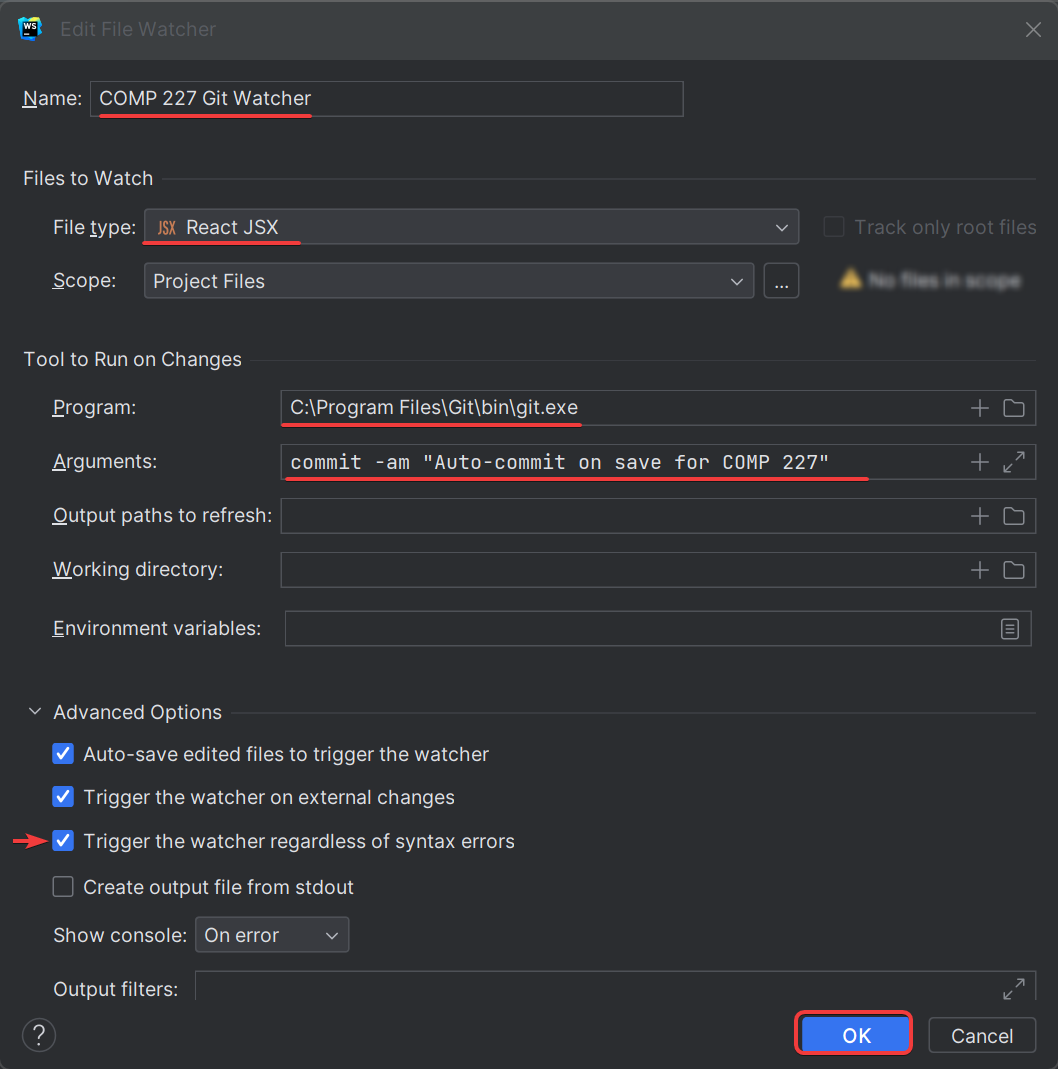
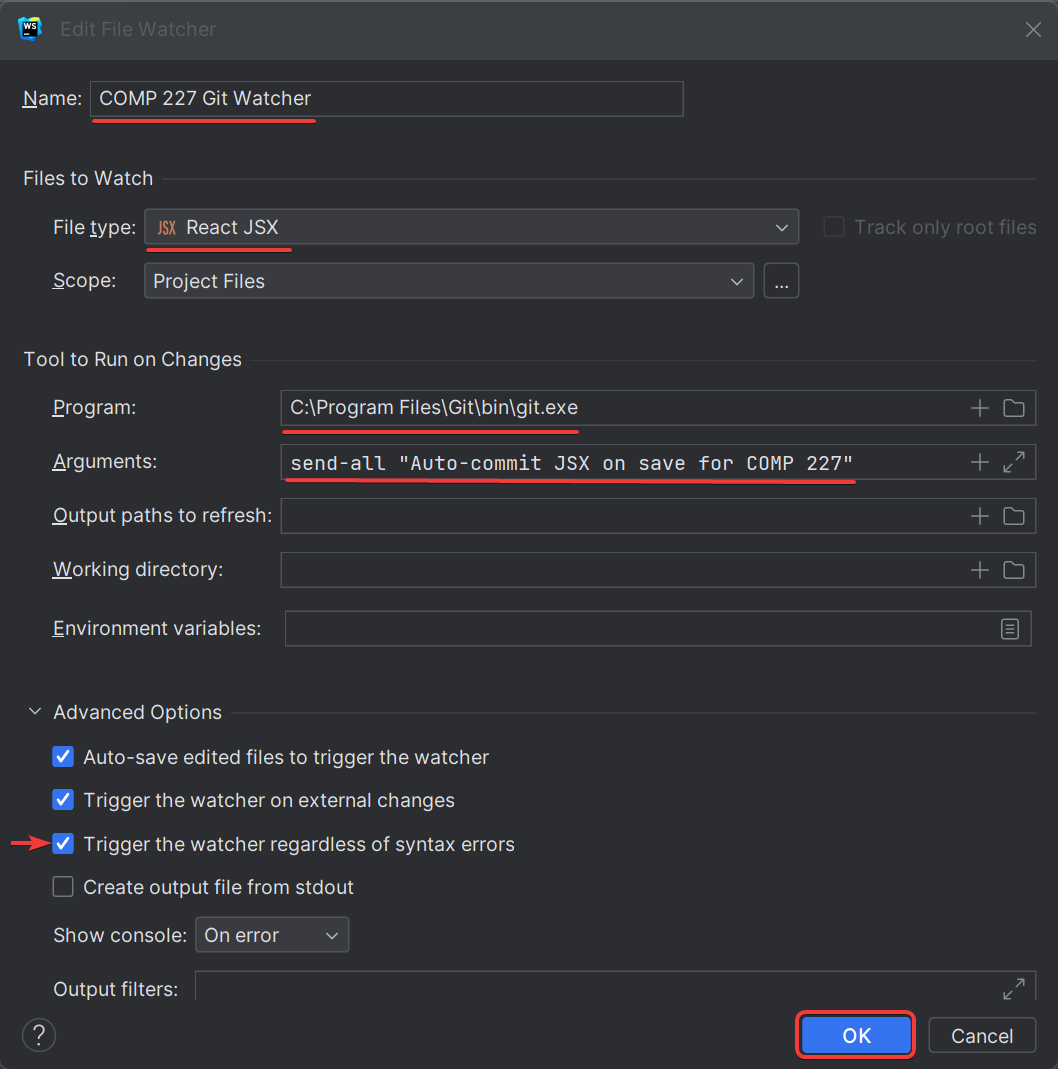
updated file watcher portion

diff --git a/src/content/0/en/part0d.md b/src/content/0/en/part0d.md
@@ -110,6 +110,9 @@ want to **set the git preferences on all the computers that you use.**  Let me s
 #### Set your git preferences on all computers that you will work on
 
 In addition to installing git, we need to make sure that we outline or configure our setup so that git knows who you are.
+
+#### Set your Git Username and Email
+
 With your terminal open, set up the git user email ID and username by typing these commands,
 making sure to replace the sections with your actual email and username
 
@@ -119,6 +122,26 @@ git config --global user.name your_github_username
 ```
 
 Make sure you press enter after each command.
+
+#### Create a Git Alias to send all changes to GitHub
+
+In addition to adding your username and password, we are going to use a specific command to streamline our git process for this course.
+You may not want to use this command in other situations as you'll want to keep closer track of what you are committing to the repo.
+However, for the purposes of this class, it will be necessary.
+
+This process will:
+
+1. add all files in the repo to be tracked
+2. commit those changes using a specified message
+3. push those changes to GitHub
+
+To do this all, we will create a git alias.
+
+```bash
+git config --global alias.send-all '!f() { git add -A && git commit -m "$@" && git push; }; f'
+```
+
+#### Change your default text editor for git commit messages
 
 Vim is the default text editor that is used in the command line.
 If you aren’t comfortable or have never used Vim, you can set up other Unix text
@@ -137,13 +160,16 @@ In those cases, you’d have to provide the entire path.
 git config --global core.editor "'C:/Program Files/Notepad++/notepad++.exe' -multiInst -nosession"
 ```
 
+#### Confirm your preferences
+
 Now to check your preferences, enter the command
 
 ```bash
 git config --list
 ```
 
-You should now see your username and email displayed among lots of other options.
+You should now see your username and email displayed, as well as the alias that we made and the editor changes.
+You can press ***Space*** to continue reviewing the changes, and ***q*** to exit.
 
 ### 4: Install Node
 
@@ -384,7 +410,7 @@ To start:
 4. In the *Name* field, type *`COMP 227 Git Watcher`*
 5. In the *File Type* field, select *`React JSX`*
 6. In the *Program* field, provide the path to your git executable (something like `C:\Program Files\Git\bin\git.exe`)
-7. In the *Arguments* field, type *`commit -am "Auto-commit JSX on save for Comp 227"`* (don't forget the quotes!)
+7. In the *Arguments* field, type *`send-all "Auto-commit JSX on save for Comp 227"`* (don't forget the quotes!)
 8. Expand the *Advanced Options* area, and select *`Trigger the watcher regardless of syntax errors`*
 9. Ensure the Scope is on *Project Files*, and that the checkboxes for *auto-save* and *trigger on external* are checked.
 
@@ -395,10 +421,19 @@ Here's what mine looked like, though your Program field may differ:
 Make sure to click ***OK*** to add the Watcher.
 You should now see it in your list of File Watchers.
 
-Let's export the watcher for future use.
+We'll need this File Watcher to be enabled for all projects in COMP 227.
+One way to make sure that it is enabled for all projects is to have the watcher be set to the Global Level.
+This can be done from the list of Watchers Setting, by changing its level category to ***Global***:
+
+![file watcher set to global](../../images/0/custom/file_watcher_global.png)
+
+If you do this, you can then jump to the [next part](#enabling-eslint)
+
+If you prefer to not have this be a global setting because you have other projects, then let's export the watcher for future use.
 Click the export button and save it in a good location.
 
 ![export icon showing highlighted](../../images/0/custom/export_button.png)
+
 Make sure to select a location you'll remember as you'll need it later.
 
 Now once you are back on the list of File Watchers, click ***Apply*** and then ***OK*** to exit out of the Settings Window.
